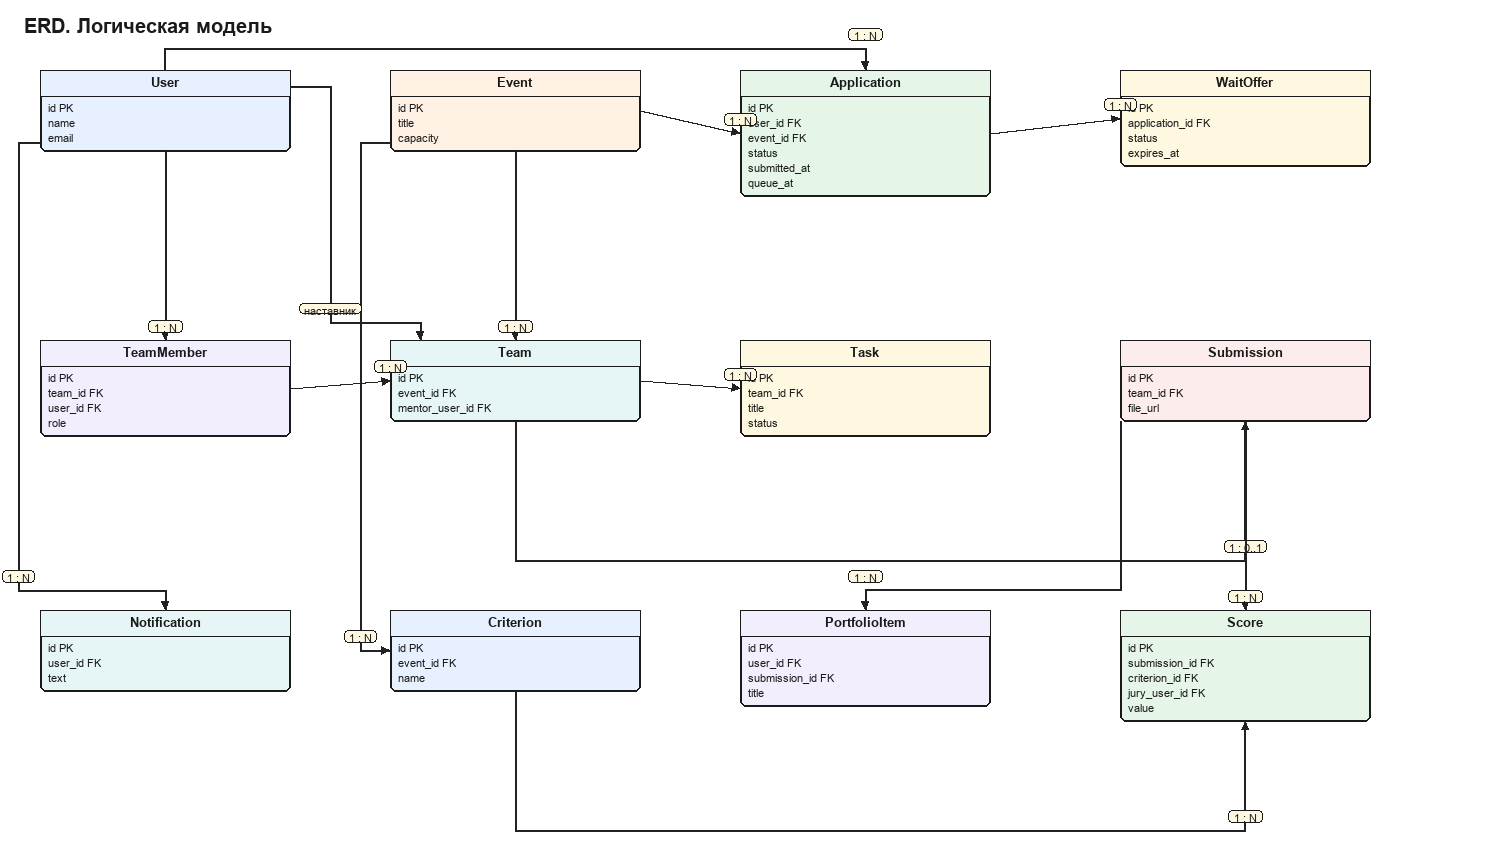
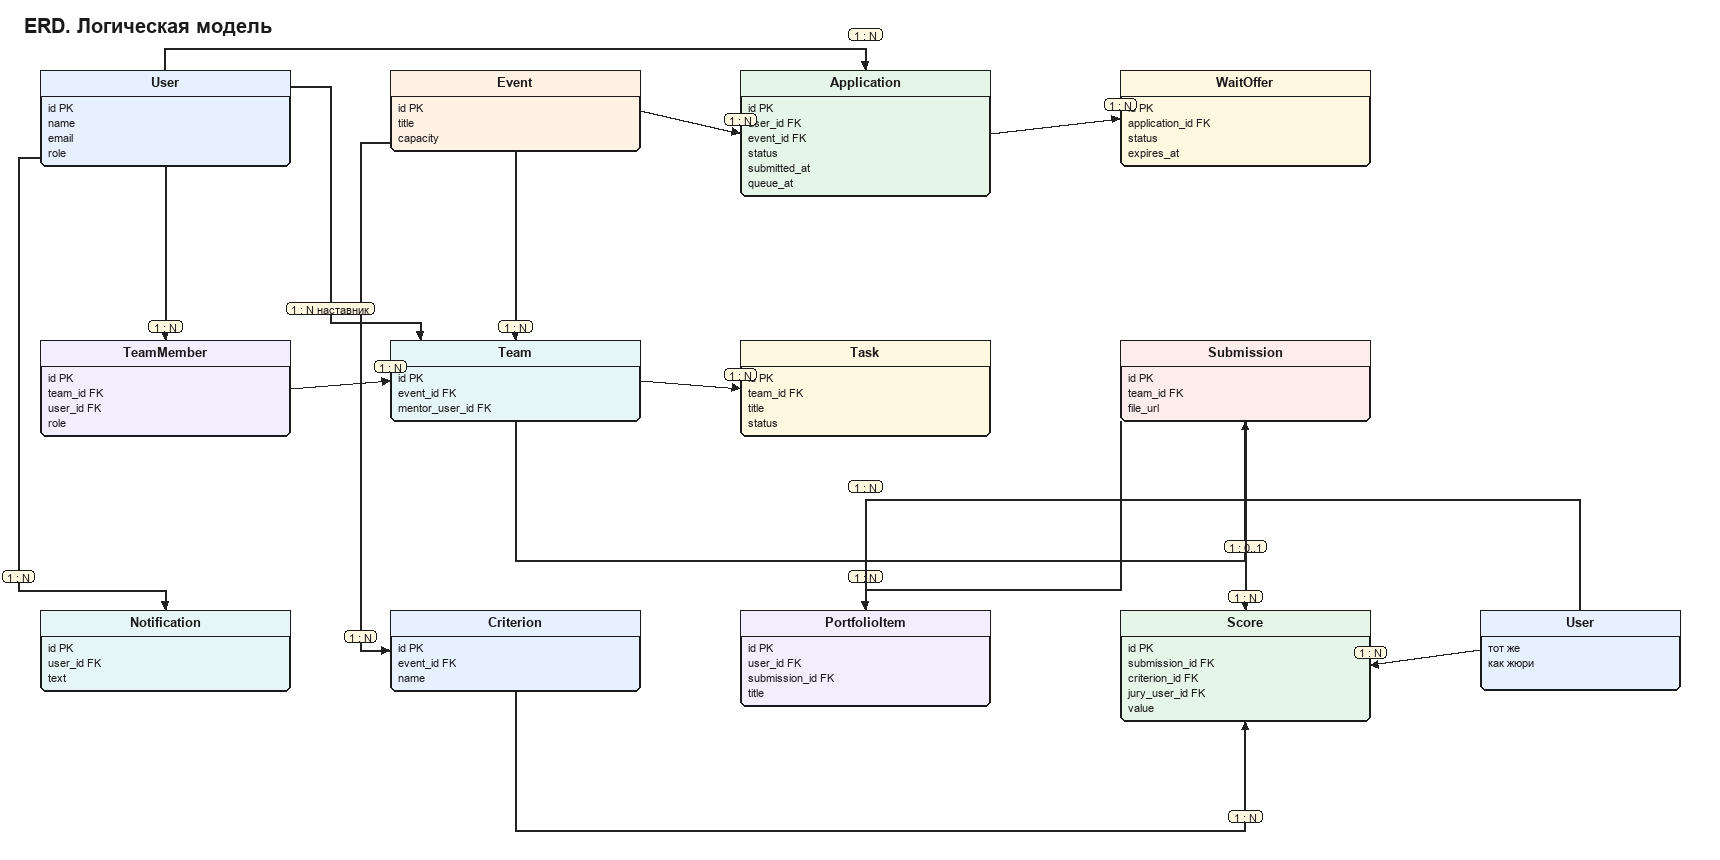
Fix lab 4 notation after the second review pass.

diff --git a/03_opisanie_is_notacii/README.md b/03_opisanie_is_notacii/README.md
@@ -22,7 +22,7 @@
 Объект: организация студенческих проектов и хакатонов.  
 В задании 2 выбран вариант C: собственное веб-приложение для мероприятий, заявок, команд, задач, оценки жюри, портфолио и отчётов.
 
-Каждая нотация отвечает на свой вопрос. Use Case показывает цели актёров. ERD показывает данные и связи. Sequence показывает порядок сообщений одного сценария. C4 показывает контейнеры и их связи. BPMN показывает процесс целиком, с дорожками и шлюзами.
+Каждая нотация отвечает на свой вопрос и на своём уровне. Use Case здесь системный: цели актёров внутри границы ИС. Sequence AS-IS это бизнес-уровень, чат и таблица. Sequence TO-BE это системный уровень, экраны и сервисы. ERD показывает данные. C4 показывает контейнеры. BPMN показывает весь процесс.
 
 ### Принятые проектные допущения
 
@@ -67,7 +67,8 @@
 **Назначение.** Логическая модель: сущности, ключи, внешние ключи и кратности. Один прямоугольник на сущность.
 
 **Краткое описание.**  
-`User` связан с заявками, членством в команде, уведомлениями и является наставником команды через `Team.mentor_user_id`.  
+`User.role` это роль в системе: студент, наставник, организатор или жюри. `TeamMember.role` это роль внутри команды, например капитан. Это разные поля.  
+Связь «наставник» идёт от `User` к `Team`. Оценка и портфолио тоже связаны с `User`: член жюри и владелец портфолио. На рисунке второй блок `User` означает ту же сущность.  
 `Event` хранит `capacity` и связан с заявками, командами и критериями.  
 `Application` хранит `status`, `submitted_at` и `queue_at`. Пара пользователя и мероприятия уникальна.  
 `WaitOffer` хранит `status` и `expires_at`. У одной заявки может быть несколько предложений, но активное в один момент одно.  
@@ -84,7 +85,9 @@
 
 **Назначение.** Классы предметной области, которые соответствуют главным сущностям ERD. Это не диаграмма сервисов.
 
-На рисунке есть атрибуты и операции: `Application.submit()`, `enqueue()`, `withdraw()`, `WaitOffer.accept()`, `expire()`, `Team.assignMentor()`, `Submission.attachFile()`, `Score.setValue()`, `PortfolioItem.publish()`.
+На рисунке есть `User`, `Event`, `Application`, `WaitOffer`, `Team`, `Submission`, `Score`, `PortfolioItem`.  
+Связь наставника и связь жюри проведены к `User`, а не спрятаны в поле-ключ.  
+Операции: `Application.submit()`, `enqueue()`, `withdraw()`, `WaitOffer.accept()`, `expire()`, `Team.assignMentor()`, `Submission.attachFile()`, `Score.setValue()`, `PortfolioItem.publish()`.
 
 ### 2.2. Доп. DFD
 
@@ -92,7 +95,7 @@
 
 **Назначение.** Какие данные движутся между внешними ролями, процессами и хранилищами.
 
-Процессы: приём заявки, модерация, команды, задачи и сдача, оценка.  
+Процессы пронумерованы с 1 по 5: приём заявки, модерация, команды, задачи и сдача, оценка.  
 Хранилища: D1 заявки и предложения, D2 команды и задачи, D3 оценки. Одинаковое имя хранилища на соседних строках означает одно и то же хранилище.  
 Потоки подписаны данными. Есть и запись, и чтение: очередь, занятые места, список задач, рейтинг, критерии.
 
@@ -116,11 +119,12 @@
 
 **Пояснение.**  
 Открытие пустой формы и отправка заполненной заявки разделены.  
-Организатор передаёт решение модерации. API читает вместимость и записывает `rejected`, `accepted` или `waiting`.  
-Когда место освобождается, Worker сам выбирает первую заявку `waiting` и создаёт `WaitOffer` со сроком 24 часа. Это работает при закрытом браузере.  
-Письмо студенту уходит через Notify.  
-Если студент принял вовремя, API проверяет, что предложение ещё `active`, и занимает место.  
-Если 24 часа прошли, Worker закрывает предложение и возвращает заявку в очередь.
+Организатор передаёт решение модерации. API читает вместимость.  
+Дальше фрагмент alt с условиями: отказ, одобрено и место есть, одобрено и мест нет.  
+Письмо о статусе уходит после фрагмента, для любого исхода.  
+Шаги очереди стоят во фрагменте opt: только если заявка `waiting` и место освободилось. Worker выбирает первую такую заявку, ставит `offered` и резервирует место.  
+Если студент принял до срока, API записывает принятие только когда предложение ещё `active` и срок не истёк.  
+Если прошло 24 часа, Worker закрывает предложение и возвращает заявку в очередь.
 
 ### 3.3. Сравнение AS-IS и TO-BE
 
@@ -144,7 +148,9 @@
 **Назначение.** Жизненный цикл одной заявки и отдельно жизненный цикл одного предложения.
 
 Заявка: `Draft`, `Submitted`, `Waiting`, `Offered`, `Accepted`, `Rejected`, `Withdrawn`.  
-Путь со свободным местом: `Submitted` переходит в `Accepted`, если модерация успешна и место есть.  
+Если модерация успешна и место есть, `Submitted` переходит сразу в `Accepted`.  
+Отозвать заявку можно из `Draft`, `Submitted`, `Waiting`, `Offered` и `Accepted`. Если при этом было занято место или активно предложение, оно освобождается.  
+`Rejected` и `Withdrawn` заканчиваются финальным состоянием. После `Accepted` финального кружка нет: дальше идут команда и проект, это уже BPMN.  
 Путь без места: `Submitted` переходит в `Waiting`, затем в `Offered`. Принятие студентом ведёт в `Accepted`. Нет ответа 24 часа возвращает эту заявку в `Waiting`. Выбор следующей заявки делает Worker, это не состояние текущей заявки.  
 Предложение: `Active`, `Accepted`, `Expired`, `Cancelled`.
 
@@ -158,7 +164,7 @@
 
 Внутри границы: Web App на React, Backend API, Waitlist Worker с таймером 24 часа, Notification, PostgreSQL, хранилище файлов сдачи.  
 Снаружи: студент, организатор, жюри, наставник и почта вуза.  
-Пользователи идут в Web App по HTTPS. Web App передаёт в API данные в JSON по HTTPS. API и Worker читают и пишут PostgreSQL. Файлы сдачи идут из API в хранилище. Worker и API вызывают Notification. Notification отправляет письмо во внешнюю почту по SMTP.
+Пользователи идут в Web App по HTTPS. Web App передаёт в API данные в JSON по HTTPS. API читает и пишет PostgreSQL и кладёт файлы сдачи в хранилище. Worker сам, по таймеру, читает PostgreSQL. Отдельного вызова API к Worker нет. Worker и API передают события в Notification. Notification отправляет письмо во внешнюю почту по SMTP.
 
 Размещение данных в РФ и разграничение ролей остаются проектными решениями из задания 2. Сам рисунок контейнера их не доказывает. Роли проверяет модуль Auth внутри API.
 
@@ -168,8 +174,8 @@
 
 **Назначение.** Что находится внутри контейнера Backend API. Компонент не равен контейнеру и не равен сущности ERD.
 
-`Applications` ставит заявку в `Waitlist`. `Waitlist` шлёт событие в `Notify`. `Scoring` передаёт итог в `Portfolio`. `Reports` читает рейтинг.  
-К данным через `IPersistence` обращаются `Applications`, `Waitlist`, `Teams` и `Scoring`. `Notify` ходит наружу через `IMail` к почте. `Auth` проверяет роль до вызова остальных модулей.
+`Applications` проверяет роль через `Auth`, затем ставит заявку в `Waitlist`. `Waitlist` вызывает контейнер Notification, тот же, что на C4. `Scoring` передаёт итог в `Portfolio`. `Reports` читает рейтинг.  
+К данным через интерфейс `IPersistence` обращаются `Applications`, `Waitlist`, `Teams` и `Scoring`.
 
 ---
 
@@ -184,9 +190,11 @@
 | Было в работе 2 | Стало | Почему |
 |---|---|---|
 | Модерация и сразу команда | Шлюз «принята?» и конец «отклонено» | Отказ не должен вести в команду |
-| Места не проверялись | Шлюз «есть места?» | Появилось правило очереди |
-| Очереди не было | `waiting`, offer на 24 часа, событийный шлюз | Ответ студента или таймер, но не оба сразу |
-| После принятия сразу задачи | Команда, наставник, задачи, сдача, оценка, портфолио | Этот хвост сохранён из исходного TO-BE |
+| Места не проверялись | Шлюз «есть места?», затем «Поставить в очередь» | Появилось правило очереди |
+| Очереди не было | Событие «место освободилось», выбор первой заявки, offer на 24 часа | Предложение не выдаётся сразу |
+| Не было ожидания ответа | Событийный шлюз: «получен ответ» или «прошло 24ч» | Принятие и таймер не идут вместе |
+| После таймера ничего | «Вернуть заявку в очередь» и поток к следующей заявке | Место переходит следующему |
+| После принятия сразу задачи | Команда, наставник, задачи, сдача, оценка, портфолио, публикация | Этот хвост сохранён из исходного TO-BE |
 
 Поток читается от зелёного старта до красного конца. Ветка отказа заканчивается отдельно. Ветка таймера возвращает заявку в ожидание и предлагает место следующему. Принятие и таймер стоят на разных выходах событийного шлюза.
 
